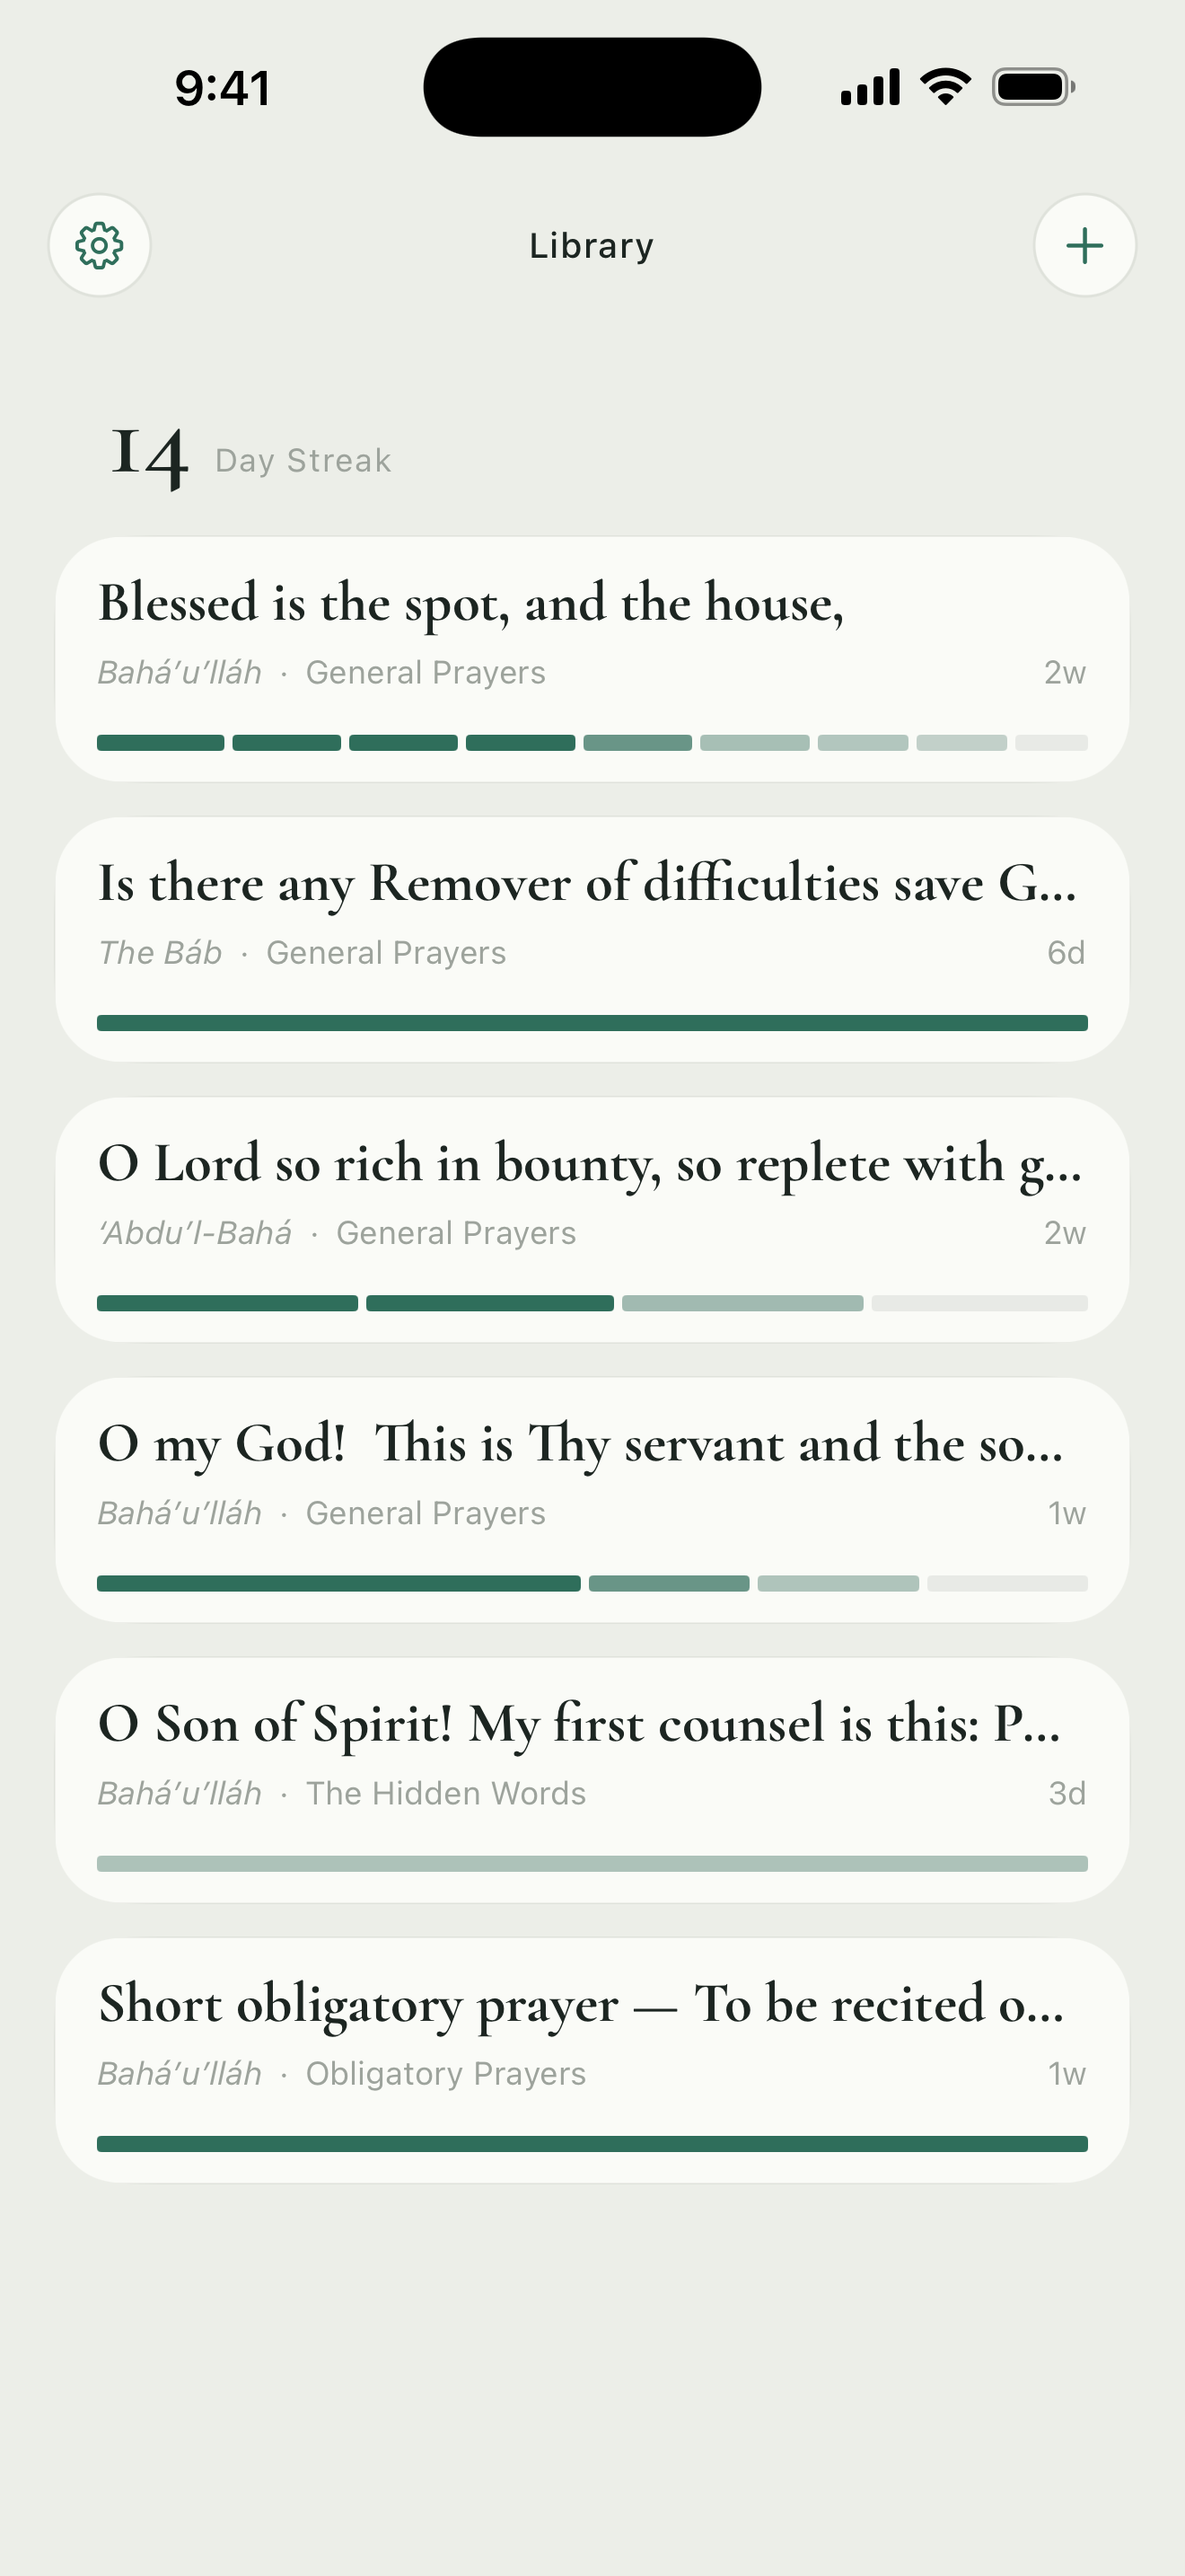
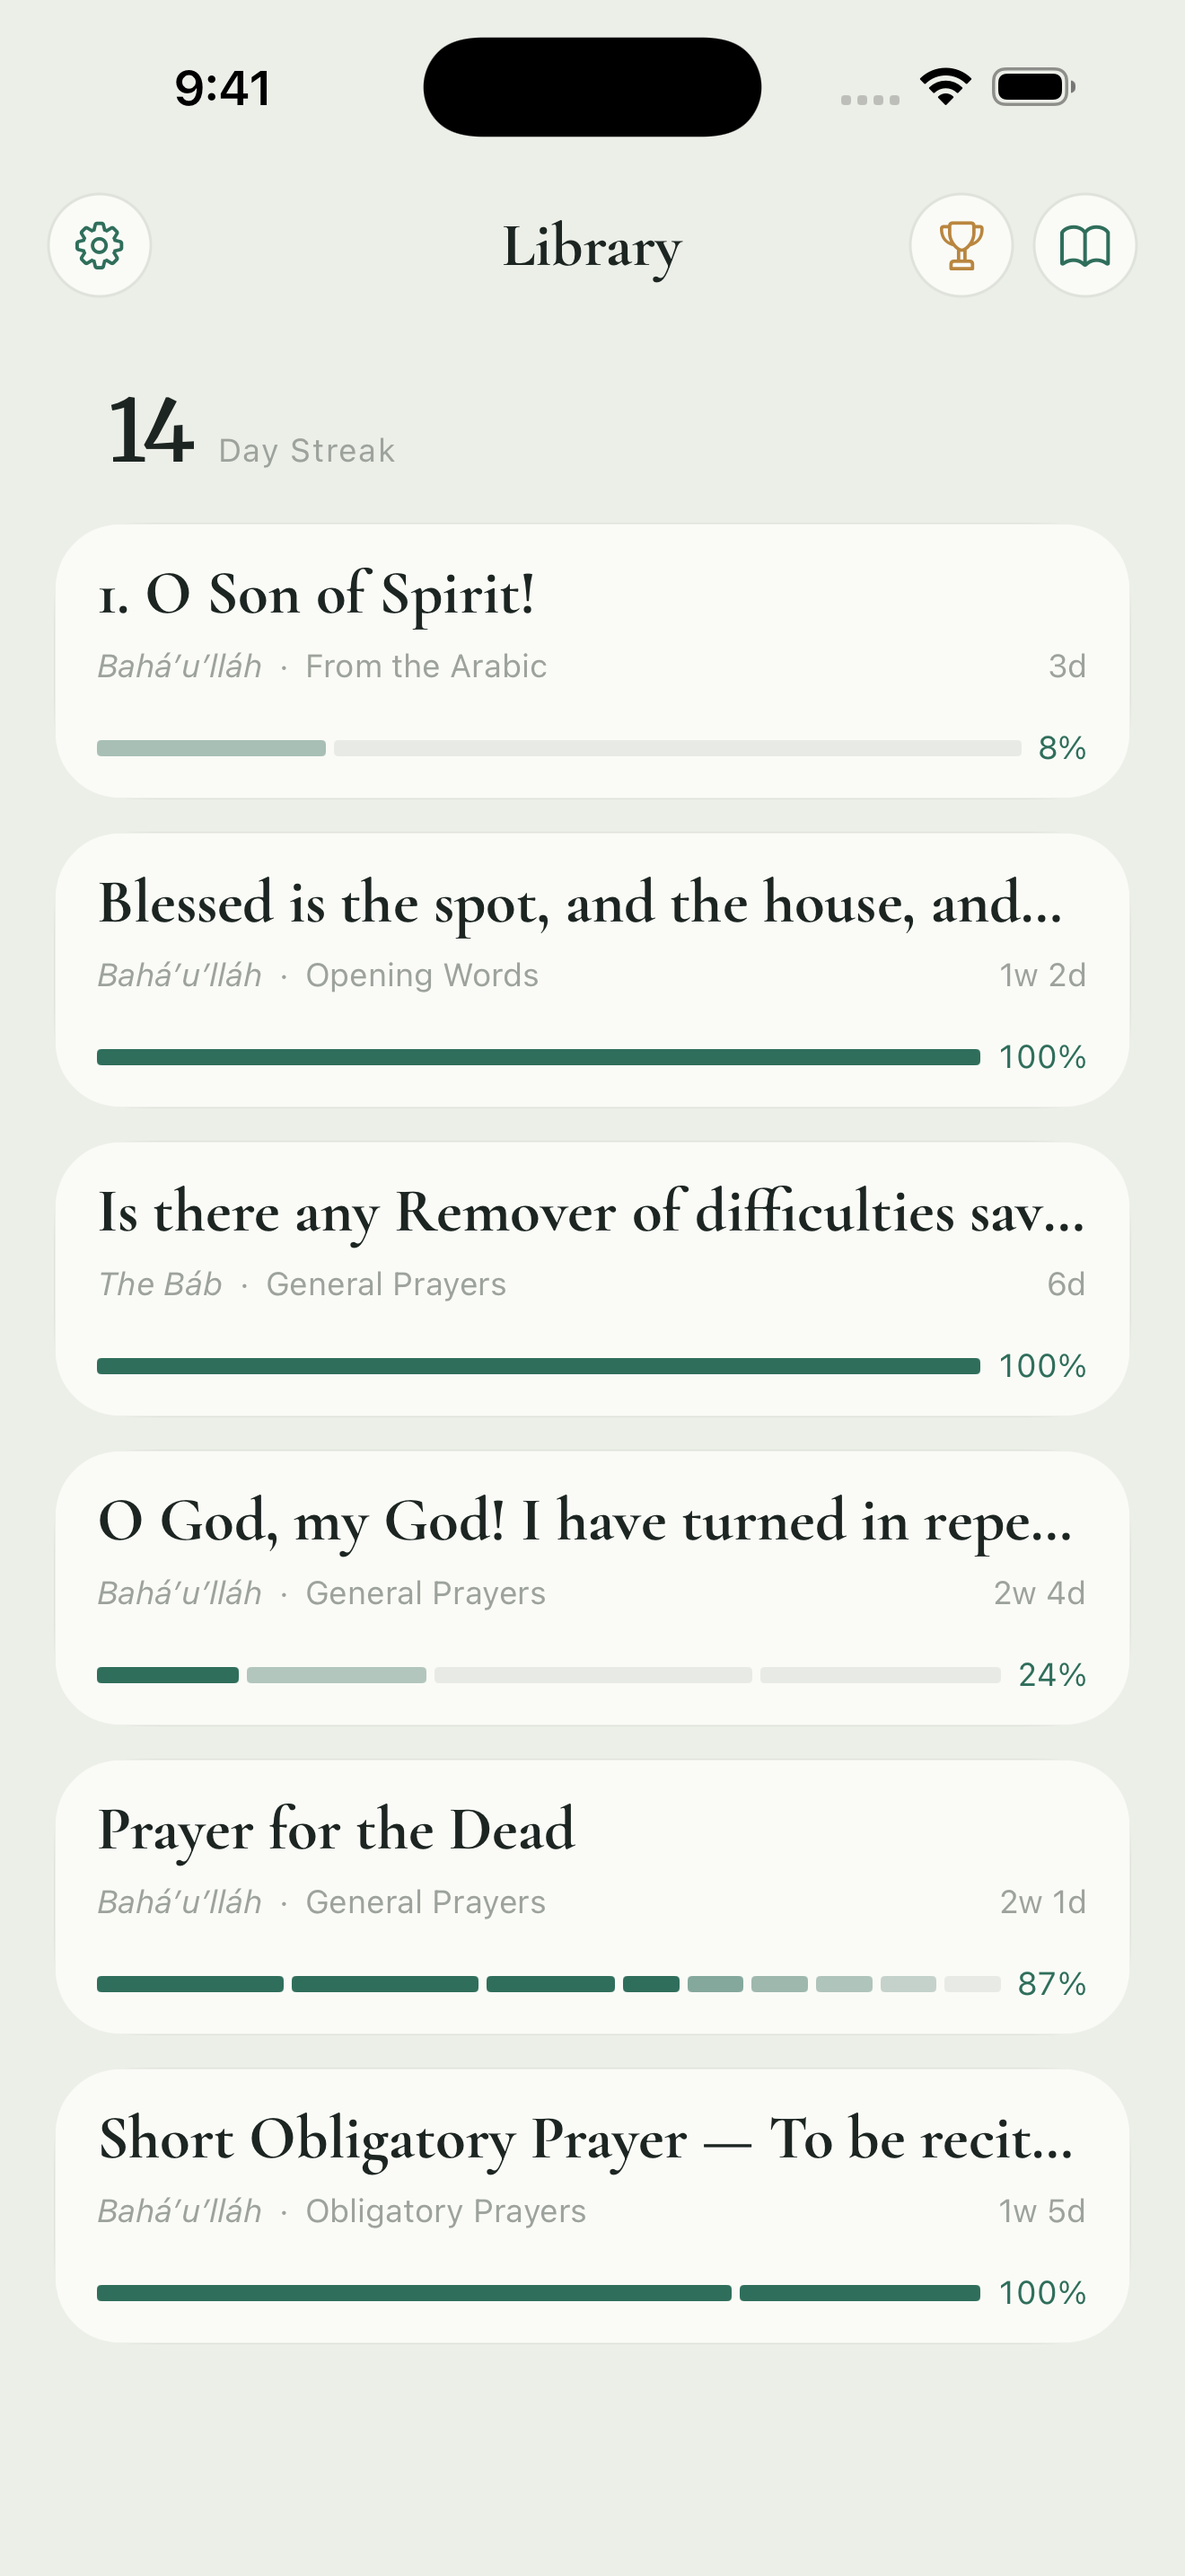
Rebuild the App Store screenshots for 1.1
The seed had gone stale: the snapshot gained savedWritings and
recentPrayerIDs, so the old store.json failed to decode and the app
launched empty, and the session hero prayer was dropped in the August
library rebuild. Reseed against the current library, suppress the welcome
tour, and recapture both device sets against the Writings surface and the
achievements screen.

diff --git a/store-screenshots/tools/seed.py b/store-screenshots/tools/seed.py
@@ -3,13 +3,15 @@ import json, uuid, sys, datetime, subprocess, os, random
 REPO = "/Users/faizififita/workspace/memorization-game"
 DEV = os.environ.get("SIM_UDID", "1E8D6700-3D51-4887-9A14-92E48D59B4B7")
 BUNDLE = "com.faizififita.MemorizationGame"
+HERO_GROUP = int(os.environ.get("HERO_GROUP", "2"))
 
 entries = json.load(open(f"{REPO}/MemorizationGame/Resources/library.json"))["entries"]
 
 
 def find(sub, sec=None):
     for e in entries:
-        if sub.lower() in e["text"].lower() and (sec is None or e.get("section") == sec):
+        haystack = e["text"] + "\n" + (e.get("heading") or "")
+        if sub.lower() in haystack.lower() and (sec is None or e.get("section") == sec):
             return e
     raise SystemExit("not found: " + sub)
 
@@ -60,14 +62,14 @@ def ramp(n, hi=1.0, lo=0.0, solid=0):
 
 # (needle, section, lines-per-chunk, per-chunk fill fractions)
 PICKS = [
-    # session hero: 4 meaty chunks, lands on the 55%-hidden one
-    ("O Lord so rich in bounty", None,               4, [1.0, 1.0, 0.55, 0.0]),
+    # session hero: lands on the 40%-hidden chunk; HERO_GROUP=4 fills the wider iPad page
+    ("I have turned in repentance unto Thee", None,  HERO_GROUP, [1.0, 0.4, 0.0, 0.0]),
     # library hero: 9 short chunks, a clean descending ramp
-    ("Blessed is the spot", None,                    1, ramp(9, hi=0.95, lo=0.0, solid=3)),
-    ("O my God!  This is Thy servant", None,         2, ramp(4, hi=0.85, lo=0.0, solid=1)),
-    ("I bear witness, O my God", "Obligatory Prayers", 1, [1.0]),
+    ("Prayer for the Dead", "General Prayers",       1, ramp(9, hi=0.95, lo=0.0, solid=3)),
+    ("I bear witness, O my God", "Obligatory Prayers", 1, [1.0, 1.0]),
+    ("Blessed is the spot", None,                    1, [1.0]),
     ("Is there any Remover", None,                   1, [1.0]),
-    ("My first counsel is this", "The Hidden Words", 1, [0.45]),
+    ("My first counsel is this", "From the Arabic",  1, [0.45]),
 ]
 
 passages, reviewables = [], []
@@ -84,6 +86,7 @@ for n, (needle, sec, group, fills) in enumerate(PICKS):
         "dateAdded": (added - REF).total_seconds(),
         "author": e.get("author"),
         "section": e.get("section"),
+        "sourceID": e["id"],
     })
     units = units_of(e, group)
     for i, unit in enumerate(units):
@@ -120,16 +123,46 @@ earlier = {15: 12, 16: 19, 18: 9, 19: 22, 21: 15, 22: 8, 24: 17}
 for back, w in earlier.items():
     words_by_day[(today - datetime.timedelta(days=back)).strftime("%Y-%m-%d")] = w
 
+SAVED = [
+    ("Blessed is the spot", None),
+    ("Thy heart is My home", None),
+    ("Tablet of A", "Special Tablets"),
+]
+
+saved_writings = []
+for n, (needle, sec) in enumerate(SAVED):
+    e = find(needle, sec)
+    saved_writings.append({
+        "id": str(uuid.uuid4()).upper(),
+        "prayerID": e["id"],
+        "title": title_of(e),
+        "text": e["text"],
+        "author": e.get("author"),
+        "section": e.get("section"),
+        "savedAt": ((now - datetime.timedelta(days=n * 2 + 1)) - REF).total_seconds(),
+    })
+
+recent_prayer_ids = [find(needle, sec)["id"] for needle, sec in [
+    ("Is there any Remover", None),
+    ("I have turned in repentance unto Thee", None),
+    ("Prayer for the Dead", "General Prayers"),
+    ("Blessed is the spot", None),
+]]
+
 snapshot = {
     "passages": passages,
     "reviewables": reviewables,
     "practiceLog": {"wordsByDay": words_by_day},
+    "savedWritings": saved_writings,
+    "recentPrayerIDs": recent_prayer_ids,
     "settings": {
         "reminderEnabled": False,
         "reminders": [{"id": str(uuid.uuid4()).upper(), "minuteOfDay": 540,
                        "message": "A few minutes with your passages keeps them fresh."}],
+        "streakReminderEnabled": True,
         "appTheme": sys.argv[1] if len(sys.argv) > 1 else "light",
         "fontSize": "medium",
+        "hasSeenWelcomeTour": True,
     },
 }
 

diff --git a/store-screenshots/README.md b/store-screenshots/README.md
@@ -7,14 +7,17 @@ Captured from simulators at exactly the sizes App Store Connect requires.
 | `iphone-6.9/` | iPhone 17 Pro Max (iOS 26) | 1320 × 2868 | the mandatory iPhone size |
 | `ipad-13/` | iPad Pro 13-inch M4 (iOS 26) | 2064 × 2752 | `TARGETED_DEVICE_FAMILY = "1,2"` ships an iPad build |
 
+Both simulators must be on the **iOS 26** runtime — the app's deployment target refuses
+to install on the 18.6 iPad Pro that carries the same name.
+
 Upload order matters — the first two are what people see in search results.
 
-1. `1-library.png` — library with the streak and per-section progress ramps
+1. `1-library.png` — library with the streak and per-passage progress ramps
 2. `2-hide-words.png` — a passage part-hidden, the core mechanic
-3. `3-built-in-library.png` — the bundled collection with counts
-4. `4-preview.png` — previewing a Hidden Word before importing
+3. `3-built-in-library.png` — the Writings surface: search, My Writings, the bundled collections with counts
+4. `4-preview.png` — reading a Hidden Word before memorizing it
 5. `5-dark.png` — the same passage in dark
-6. `6-library-dark.png`, `7-hidden-words.png` — spares
+6. `6-library-dark.png`, `7-hidden-words.png`, `8-achievements.png` — spares
 
 If you drop the iPad build (`TARGETED_DEVICE_FAMILY = 1`), `ipad-13/` is no longer needed.
 
@@ -30,10 +33,21 @@ screen is 1320 × 2868 (a 16/17 Pro Max); a smaller phone produces the wrong pix
 `tools/seed.py` writes a `store.json` straight into the simulator's app container, using
 real passages from `MemorizationGame/Resources/library.json`. It mirrors the app's own
 import logic — units split on newlines, `span` = unit index, hidden words scattered across
-word-ish tokens — so the app loads it as if the passages had been imported by hand.
+word-ish tokens — so the app loads it as if the passages had been imported by hand. It
+also seeds `savedWritings` and `recentPrayerIDs` so the Writings surface has counts to
+show, and sets `hasSeenWelcomeTour` so the guided tour does not cover the first screen.
+
+`PICKS` names passages by a substring of their text or heading. The library is rebuilt
+from bahai.org from time to time and passages do disappear — if `seed.py` exits with
+`not found:`, pick a replacement of a similar shape rather than forcing the old one back.
+
+`HERO_GROUP` sets how many source lines make up one chunk of the session hero passage.
+Leave it at the default `2` for iPhone; use `3` for iPad, where a smaller chunk floats in
+the middle of a much larger page.
 
 `tools/drive.py` taps through the UI using `idb`, locating elements by accessibility label
-so taps don't depend on hardcoded coordinates.
+so taps don't depend on hardcoded coordinates. Run it from inside `tools/` — it is
+imported as a module, not resolved by path.
 
 ```sh
 export SIM_UDID=<simulator udid>          # xcrun simctl list devices available
@@ -58,15 +72,20 @@ Then drive it:
 ```python
 import drive, time
 drive.shot("1-library.png")
-drive.tap("O Lord so rich in bounty", pause=1)
-time.sleep(5)                              # let the 1.4s grounding reveal finish
+drive.tap("I have turned in repentance", pause=2)
+time.sleep(6)                              # let the 1.4s grounding reveal finish
 drive.shot("2-hide-words.png")
 ```
 
-Two things that will bite you:
+Things that will bite you:
 
-- **Wait ~5s after entering a session.** It deliberately shows every word for 1.4s, then
+- **Dismiss the notification prompt first.** A fresh install asks on launch;
+  `drive.tap("Don’t Allow")` clears it.
+- **Wait ~6s after entering a session.** It deliberately shows every word for 1.4s, then
   ripples them away. Screenshot too early and nothing looks hidden.
 - **`idb connect <udid>` first**, and only tap elements that are on screen — `drive.find`
   filters to those, because tapping a list row scrolled out of view sends the tap to
   whatever is at that coordinate, which can background the app.
+- **The iPad shots carry a small grey arc in the bottom-right corner** — iPadOS's Quick
+  Note affordance. It survives disabling the corner gesture and a respring, and it is
+  present in the 1.0 screenshots Apple approved, so it is left alone.
